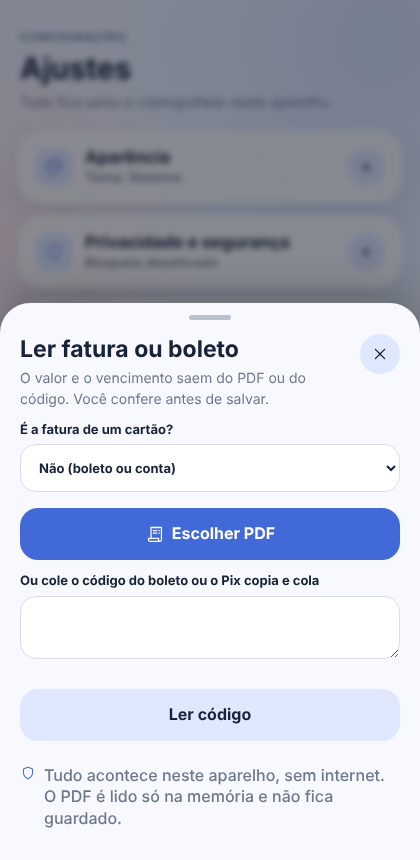
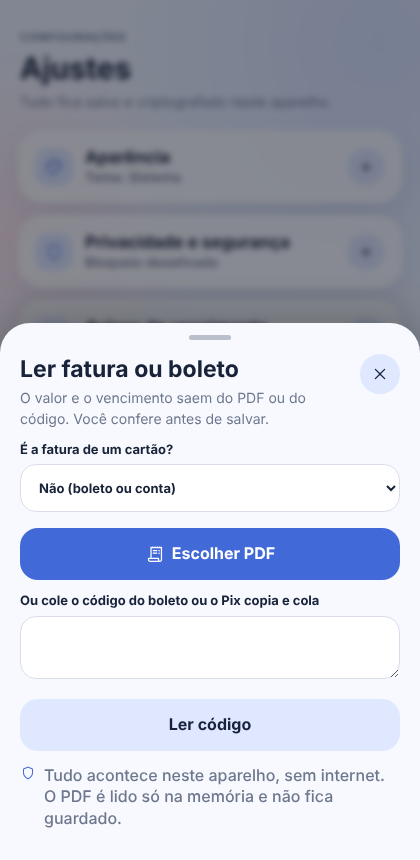
Botões lado a lado com a mesma altura
A classe .soft (caixas de texto) dava margem vertical ao botão secundário.

Claude-Session: https://claude.ai/code/session_01XzZHZpxvricMqm5qYvHEZN

Changed region(s): [[0.0, 0.3326, 1.0, 0.7256], [0.4024, 0.8163, 0.619, 0.8767], [0.9286, 0.7558, 0.9595, 0.786]]

diff --git a/style.css b/style.css
@@ -58,7 +58,7 @@ kbd{font:600 11px/1 ui-monospace,SFMono-Regular,Menlo,monospace;padding:4px 6px;
 /* botões */
 .btn{display:inline-flex;align-items:center;justify-content:center;gap:7px;padding:12px 15px;border-radius:16px;font-weight:750;min-height:44px}
 .btn.primary{background:var(--accent);color:var(--onAccent)}
-.btn.soft{background:var(--accent2)}
+.btn.soft{background:var(--accent2);margin:0} /* sem a margem da caixa .soft: botões lado a lado ficam da mesma altura */
 .btn.danger,.dangerB{background:var(--danger)!important;color:var(--red)!important}
 .btn.small{padding:8px 12px;min-height:36px;border-radius:13px;font-size:13px}
 .btn.wide{width:100%}
@@ -294,8 +294,9 @@ summary .ic{transition:transform .2s}
 .seg{display:grid;grid-template-columns:1fr 1fr;background:color-mix(in srgb,var(--accent2) 80%,transparent);padding:4px;border-radius:17px;margin:6px 0 4px}
 .seg button{padding:11px;border-radius:14px;min-height:44px}
 .seg .selected{background:var(--field);box-shadow:0 4px 12px rgba(40,55,85,.1);font-weight:800}
-.sheetActions{display:flex;gap:10px;margin-top:16px}
-.sheetActions .btn{flex:1;padding:15px;border-radius:18px}
+.sheetActions{display:flex;gap:10px;margin-top:16px;align-items:stretch}
+/* margin 0: a classe genérica .soft (caixas de texto) dá margem vertical e deixava o botão "soft" mais baixo que o principal */
+.sheetActions .btn{flex:1 1 0;min-width:0;margin:0;padding:15px;border-radius:18px}
 
 /* folha (celular: de baixo; computador: janela central) e diálogos */
 dialog{color:var(--text)}

diff --git a/CHANGELOG.md b/CHANGELOG.md
@@ -2,6 +2,7 @@
 
 ## Próxima versão — ajustes (13/10/2026)
 
+- **Botões do mesmo tamanho:** o botão secundário (claro) ficava mais baixo que o principal quando os dois estavam lado a lado (ex.: "Ler outra" e "Salvar como conta a pagar", "Despesa" e "Receita" no topo). A classe `.soft` das caixas de texto dava uma margem vertical também ao botão; agora `.btn.soft` e os botões de `.sheetActions` não têm margem e ocupam a mesma altura. Só `style.css` mudou.
 - **Ler fatura ou boleto, ajustes na tela de conferência:** quando o valor e o vencimento vêm do mesmo código do boleto, o trecho aparece uma vez só ("Valor e vencimento do código do boleto"); a categoria começa em **Outros** (ou Moradia para conta de consumo, ou a sugerida pelo assistente) em vez de Alimentação; na fatura de cartão sem nenhuma compra lançada, o aviso diz "Nenhuma compra deste cartão lançada nesta fatura no Finan+" em vez de "Faltam R$ X em compras".
 
 ## Ler fatura ou boleto (13/10/2026, ainda não publicado)
